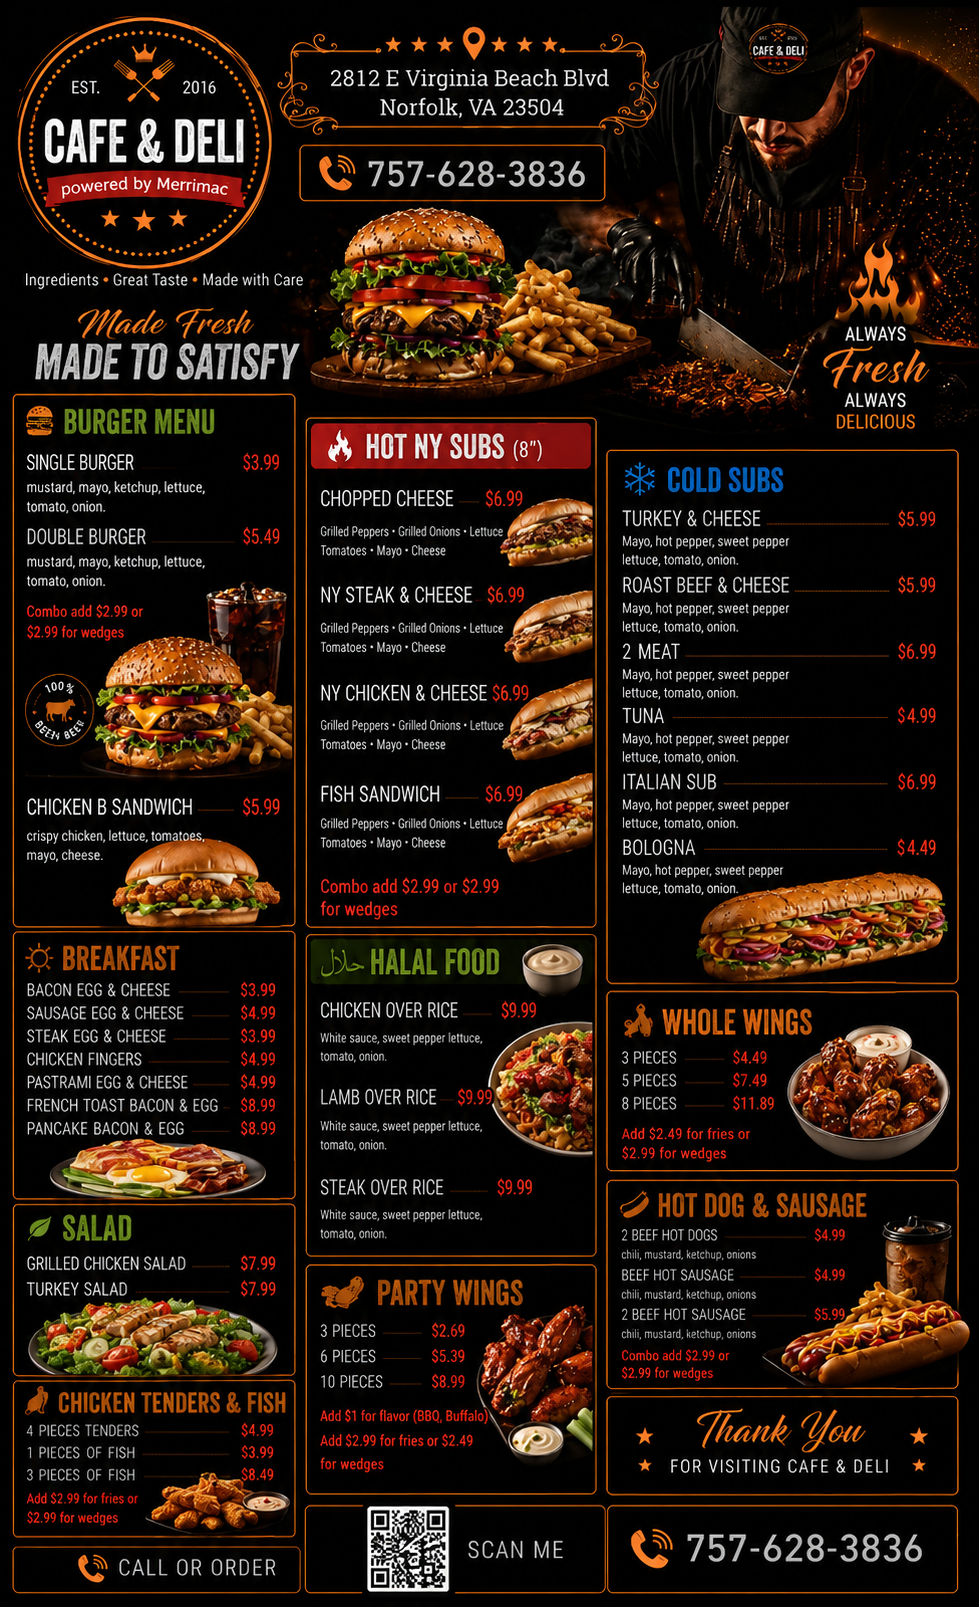
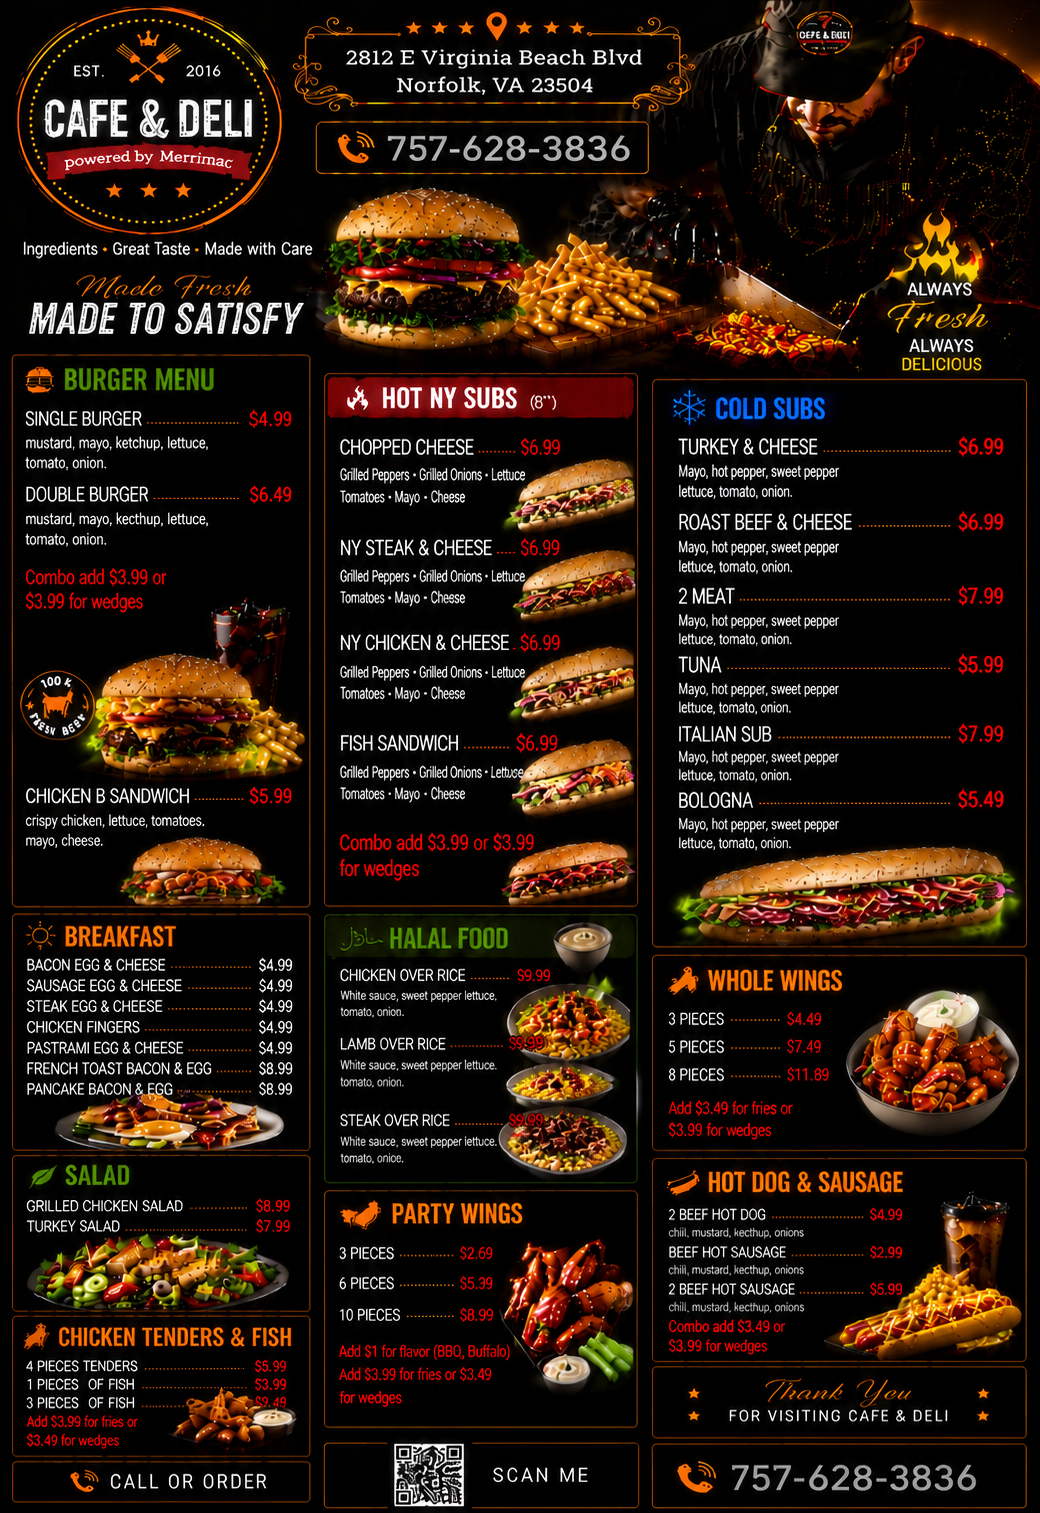
Add files via upload

diff --git a/burger.html b/burger.html
@@ -34,9 +34,9 @@
 
 <h2>Single Burger</h2>
 
-<p>$3.99</p>
+<p>$4.99</p>
 
-<button class="btn orange" onclick="addToCart('Single Burger','$3.99')">
+<button class="btn orange" onclick="addToCart('Single Burger','$4.99')">
 🛒 Add to Cart
 </button>
 
@@ -46,13 +46,13 @@
 
 <div class="menu-card">
 
-<img src="hero.jpg" alt="Burger">
+<img src="double.jpg" alt="Double Burger">
 
 <h2>Double Burger</h2>
 
-<p>$5.49</p>
+<p>$6.49</p>
 
-<button class="btn orange" onclick="addToCart('Double Burger','$5.49')">
+<button class="btn orange" onclick="addToCart('Double Burger','$6.49')">
 🛒 Add to Cart
 </button>
 
